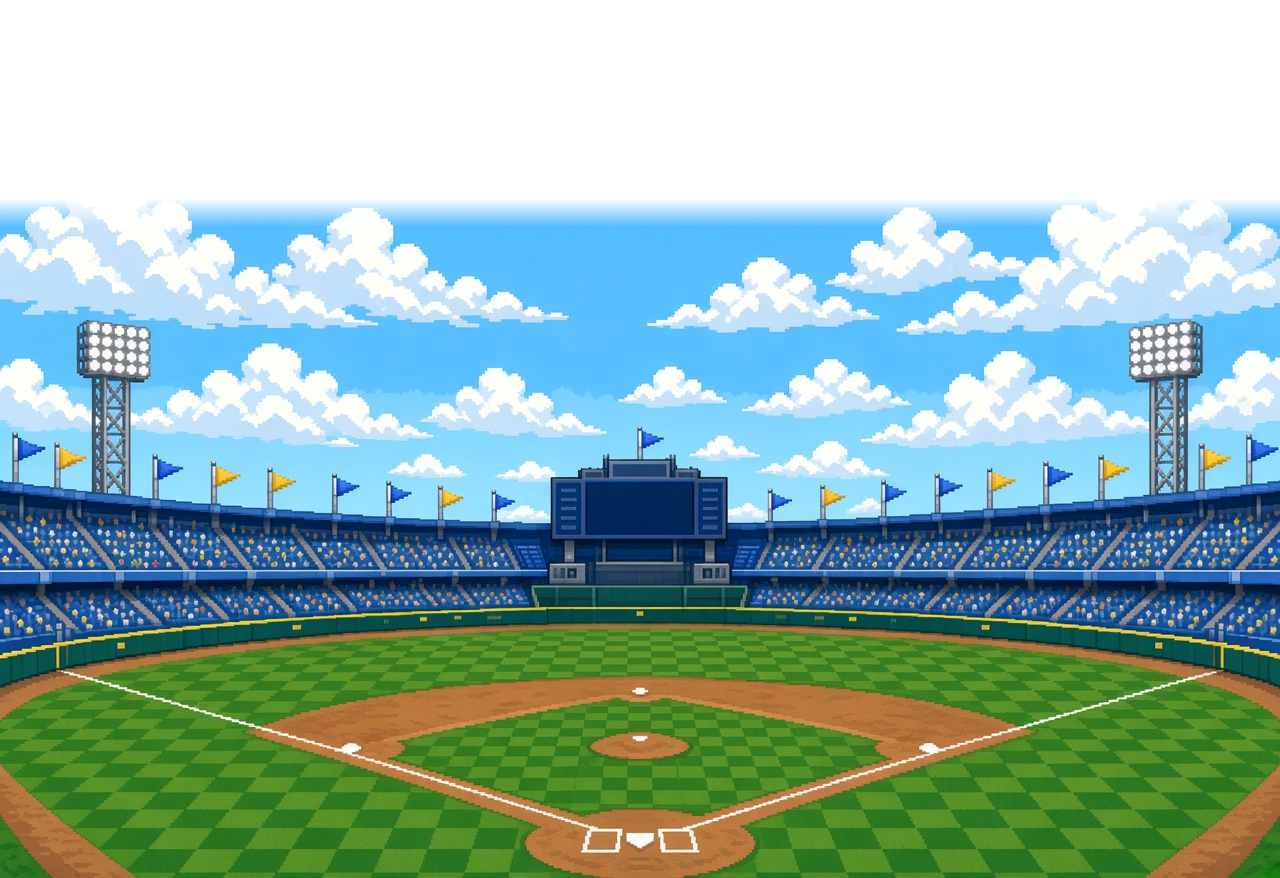
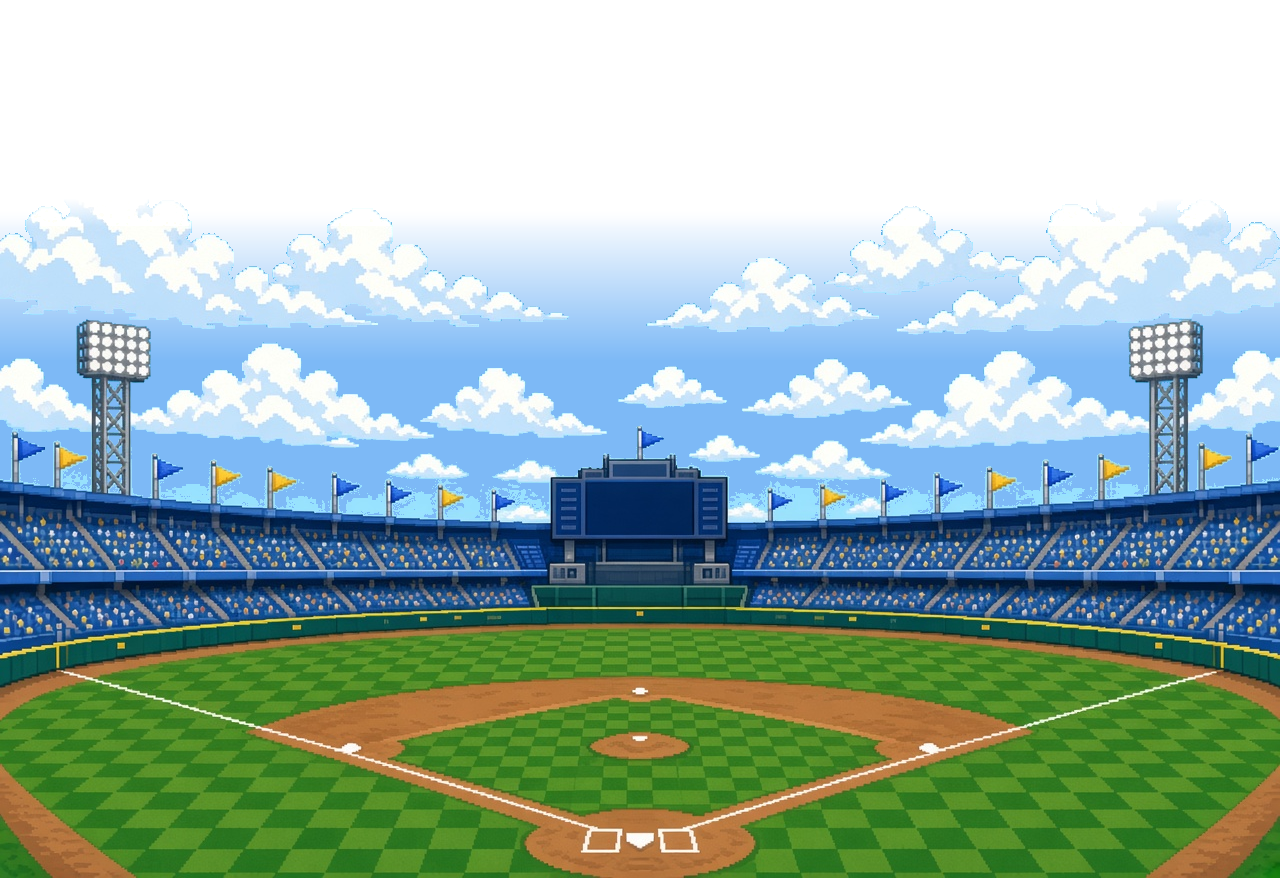
Soften the sky seam and lock it to brand blue.
Retint leftover stadium cyan toward #3295fb / #BBD6F1 and stretch both the wash and the mask so the old hard line is gone.

Changed region(s): [[0.0, 0.2153, 1.0, 0.5843], [0.9375, 0.2153, 1.0, 0.2768], [0.0, 0.2153, 0.0625, 0.2768]]

diff --git a/src/app/globals.css b/src/app/globals.css
@@ -132,7 +132,7 @@ body {
   Homepage sky stack: CSS wash + transparent clouds + stadium art.
   Sections stay transparent so the blue fade and clouds continue
   from reviews through How It Works into the stadium.
-  Stadium sky match: #55BCFF
+  Brand sky: #BBD6F1 → #3295fb. Stadium cyan is punched/retinted.
 */
 .home-sky-scene {
   position: relative;
@@ -148,16 +148,19 @@ body {
 .home-sky-wash {
   position: absolute;
   inset: 0;
-  /* White on top; brand blues only after About, then a long soft fade */
+  /* White on top, then a long brand-blue fade — #3295fb / #BBD6F1 only */
   background: linear-gradient(
     180deg,
     #ffffff 0%,
-    #ffffff 42%,
-    #f7fbff 50%,
-    #BBD6F1 62%,
-    color-mix(in srgb, #3295fb 22%, #BBD6F1) 74%,
-    color-mix(in srgb, #3295fb 38%, #BBD6F1) 86%,
-    color-mix(in srgb, #3295fb 32%, #8ec4f5) 100%
+    #ffffff 36%,
+    #f7faff 44%,
+    #eef4fa 50%,
+    #dce8f5 56%,
+    #BBD6F1 64%,
+    color-mix(in srgb, #3295fb 18%, #BBD6F1) 74%,
+    color-mix(in srgb, #3295fb 30%, #BBD6F1) 84%,
+    color-mix(in srgb, #3295fb 40%, #BBD6F1) 92%,
+    color-mix(in srgb, #3295fb 45%, #BBD6F1) 100%
   );
 }
 .home-sky-clouds {
@@ -1133,23 +1136,27 @@ button:focus-visible {
   image-rendering: pixelated;
   image-rendering: crisp-edges;
   opacity: 1;
-  /* Long soft fade so the field eases onto the brand-blue wash */
+  /* Keep the cyan stadium sky hidden so the brand wash shows through */
   -webkit-mask-image: linear-gradient(
     180deg,
     transparent 0%,
-    rgba(0, 0, 0, 0.12) 18%,
-    rgba(0, 0, 0, 0.45) 32%,
-    rgba(0, 0, 0, 0.82) 48%,
-    #000 64%,
+    transparent 20%,
+    rgba(0, 0, 0, 0.08) 32%,
+    rgba(0, 0, 0, 0.22) 42%,
+    rgba(0, 0, 0, 0.48) 54%,
+    rgba(0, 0, 0, 0.78) 68%,
+    #000 82%,
     #000 100%
   );
   mask-image: linear-gradient(
     180deg,
     transparent 0%,
-    rgba(0, 0, 0, 0.12) 18%,
-    rgba(0, 0, 0, 0.45) 32%,
-    rgba(0, 0, 0, 0.82) 48%,
-    #000 64%,
+    transparent 20%,
+    rgba(0, 0, 0, 0.08) 32%,
+    rgba(0, 0, 0, 0.22) 42%,
+    rgba(0, 0, 0, 0.48) 54%,
+    rgba(0, 0, 0, 0.78) 68%,
+    #000 82%,
     #000 100%
   );
 }
